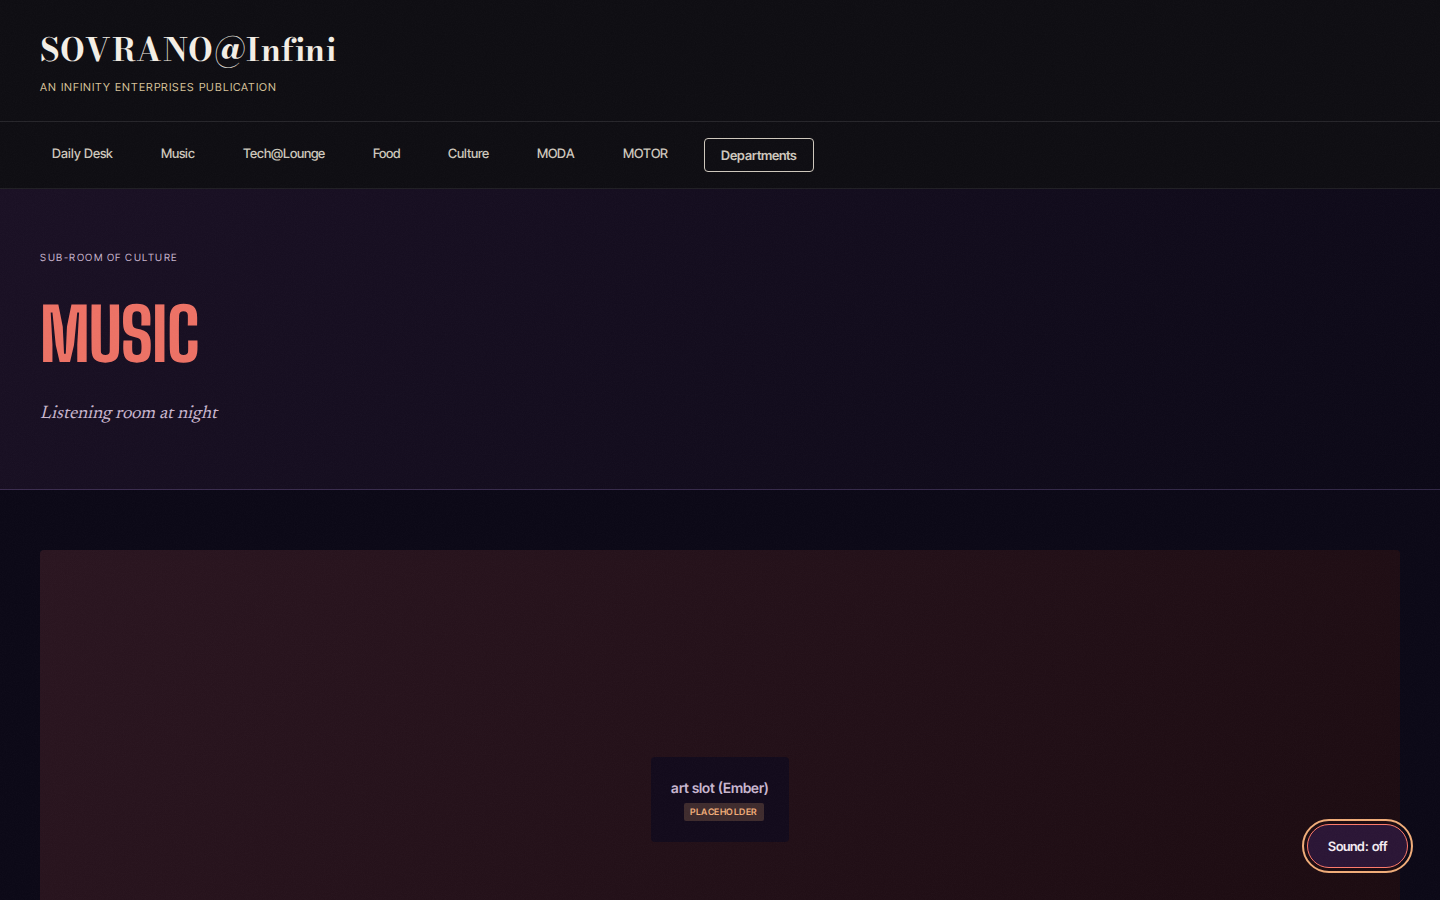
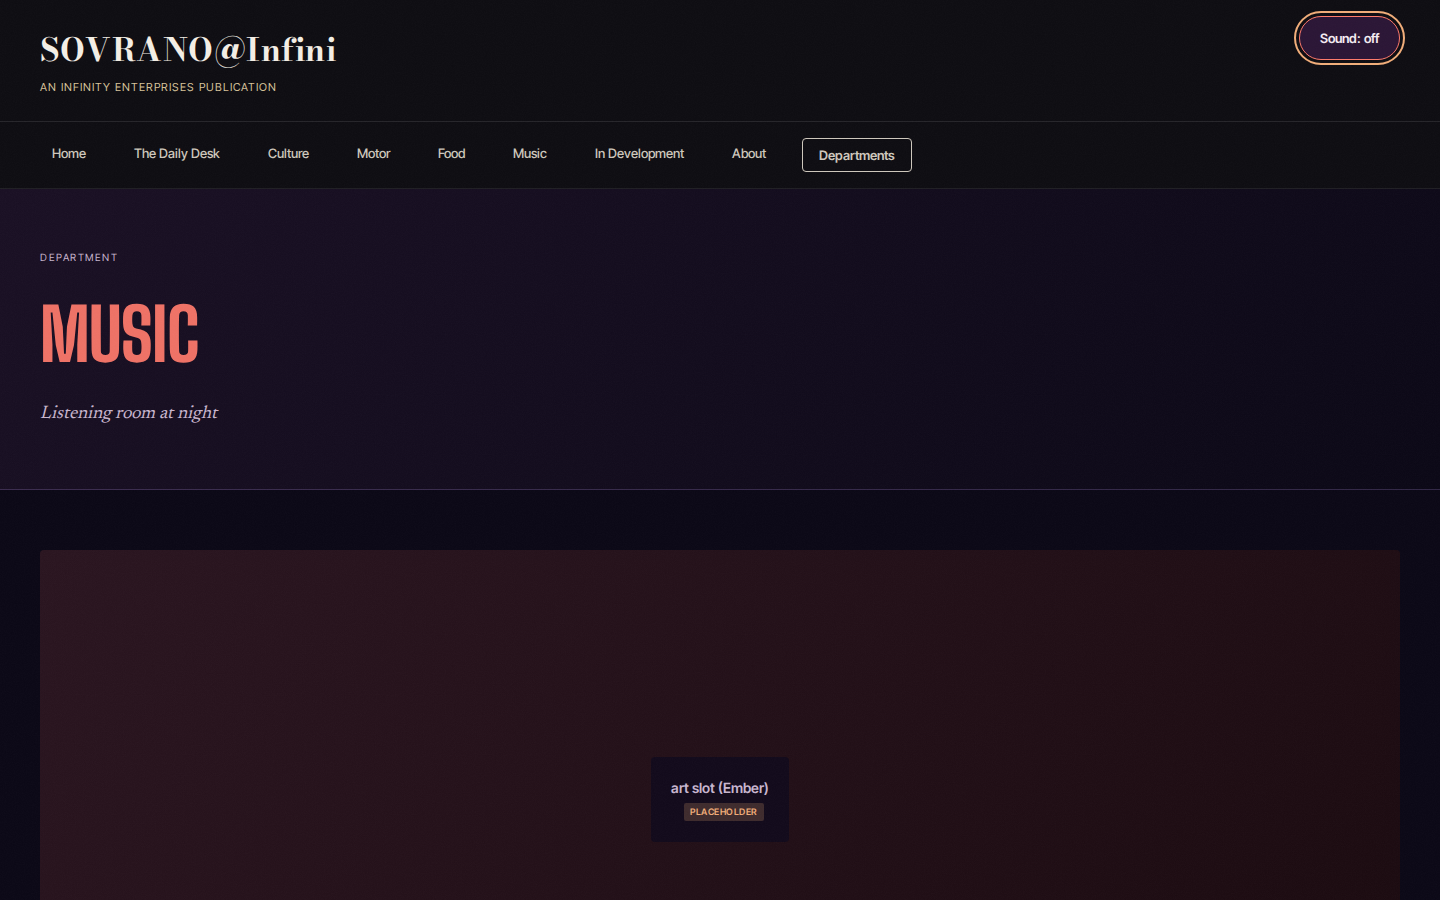
Fix issue #35 v2 mocks: navigation, labels, comparison PNGs (#35)
Four fixes per Forge review:
1. Fixed blank comparison PNGs (now show three rooms side-by-side)
2. Updated Music eyebrow from 'Sub-room of Culture' to 'Department' (Music is top-level per #60)
3. Fixed navigation to match NAVIGATION.md primary bar: Home, The Daily Desk, Culture, Motor, Food, Music, In Development, About, Departments. English department names only (removed Italian labels Circuit/Trattoria). Current page marked with aria-current.
4. Moved sound toggle to fixed top-right (avoids overlapping hero art)

All PNGs re-rendered. Build passes. No prohibited content.

diff --git a/design/issue-mocks/issue-35-v2/tech-lounge.html b/design/issue-mocks/issue-35-v2/tech-lounge.html
@@ -289,8 +289,8 @@
     /* Sound control */
     .sound-control {
       position: fixed;
-      bottom: 32px;
-      right: 32px;
+      top: 16px;
+      right: 40px;
       z-index: 100;
     }
     
@@ -355,8 +355,8 @@
       }
       
       .sound-control {
-        bottom: 20px;
-        right: 20px;
+        top: 12px;
+        right: 24px;
       }
     }
     
@@ -396,21 +396,22 @@
   <!-- Shared navigation -->
   <nav class="nav">
     <ul class="nav-list">
-      <li><a href="#" class="nav-link">Daily Desk</a></li>
-      <li><a href="#" class="nav-link">Music</a></li>
-      <li><a href="#" class="nav-link">Tech@Lounge</a></li>
-      <li><a href="#" class="nav-link">Food</a></li>
+      <li><a href="#" class="nav-link">Home</a></li>
+      <li><a href="#" class="nav-link">The Daily Desk</a></li>
       <li><a href="#" class="nav-link">Culture</a></li>
-      <li><a href="#" class="nav-link">MODA</a></li>
-      <li><a href="#" class="nav-link">MOTOR</a></li>
-      <li><button class="nav-menu-button" aria-label="Open departments menu">Departments</button></li>
+      <li><a href="#" class="nav-link">Motor</a></li>
+      <li><a href="#" class="nav-link">Food</a></li>
+      <li><a href="#" class="nav-link">Music</a></li>
+      <li><a href="#" class="nav-link">In Development</a></li>
+      <li><a href="#" class="nav-link">About</a></li>
+      <li><button class="nav-menu-button" aria-label="Open departments menu" aria-current="page">Departments</button></li>
     </ul>
   </nav>
   
   <div class="room-container">
     <!-- Room hero -->
     <section class="room-hero">
-      <div class="room-label">CIRCUIT</div>
+      <div class="room-label">Department</div>
       <h1 class="room-title">TECH@LOUNGE<span class="cursor-blink"></span></h1>
       <p class="room-tagline">Cold and exact</p>
     </section>

diff --git a/design/issue-mocks/issue-35-v2/music.html b/design/issue-mocks/issue-35-v2/music.html
@@ -232,8 +232,8 @@
     /* Sound control */
     .sound-control {
       position: fixed;
-      bottom: 32px;
-      right: 32px;
+      top: 16px;
+      right: 40px;
       z-index: 100;
     }
     
@@ -313,8 +313,8 @@
       }
       
       .sound-control {
-        bottom: 20px;
-        right: 20px;
+        top: 12px;
+        right: 24px;
       }
     }
     
@@ -353,13 +353,14 @@
   <!-- Shared navigation -->
   <nav class="nav">
     <ul class="nav-list">
-      <li><a href="#" class="nav-link">Daily Desk</a></li>
-      <li><a href="#" class="nav-link">Music</a></li>
-      <li><a href="#" class="nav-link">Tech@Lounge</a></li>
-      <li><a href="#" class="nav-link">Food</a></li>
+      <li><a href="#" class="nav-link">Home</a></li>
+      <li><a href="#" class="nav-link">The Daily Desk</a></li>
       <li><a href="#" class="nav-link">Culture</a></li>
-      <li><a href="#" class="nav-link">MODA</a></li>
-      <li><a href="#" class="nav-link">MOTOR</a></li>
+      <li><a href="#" class="nav-link">Motor</a></li>
+      <li><a href="#" class="nav-link">Food</a></li>
+      <li><a href="#" class="nav-link" aria-current="page">Music</a></li>
+      <li><a href="#" class="nav-link">In Development</a></li>
+      <li><a href="#" class="nav-link">About</a></li>
       <li><button class="nav-menu-button" aria-label="Open departments menu">Departments</button></li>
     </ul>
   </nav>
@@ -367,7 +368,7 @@
   <div class="room-container">
     <!-- Room hero -->
     <section class="room-hero">
-      <div class="room-label">Sub-room of Culture</div>
+      <div class="room-label">Department</div>
       <h1 class="room-title">MUSIC</h1>
       <p class="room-tagline">Listening room at night</p>
     </section>

diff --git a/design/issue-mocks/issue-35-v2/food.html b/design/issue-mocks/issue-35-v2/food.html
@@ -225,8 +225,8 @@
     /* Sound control */
     .sound-control {
       position: fixed;
-      bottom: 32px;
-      right: 32px;
+      top: 16px;
+      right: 40px;
       z-index: 100;
     }
     
@@ -306,8 +306,8 @@
       }
       
       .sound-control {
-        bottom: 20px;
-        right: 20px;
+        top: 12px;
+        right: 24px;
       }
     }
     
@@ -346,13 +346,14 @@
   <!-- Shared navigation -->
   <nav class="nav">
     <ul class="nav-list">
-      <li><a href="#" class="nav-link">Daily Desk</a></li>
-      <li><a href="#" class="nav-link">Music</a></li>
-      <li><a href="#" class="nav-link">Tech@Lounge</a></li>
-      <li><a href="#" class="nav-link">Food</a></li>
+      <li><a href="#" class="nav-link">Home</a></li>
+      <li><a href="#" class="nav-link">The Daily Desk</a></li>
       <li><a href="#" class="nav-link">Culture</a></li>
-      <li><a href="#" class="nav-link">MODA</a></li>
-      <li><a href="#" class="nav-link">MOTOR</a></li>
+      <li><a href="#" class="nav-link">Motor</a></li>
+      <li><a href="#" class="nav-link" aria-current="page">Food</a></li>
+      <li><a href="#" class="nav-link">Music</a></li>
+      <li><a href="#" class="nav-link">In Development</a></li>
+      <li><a href="#" class="nav-link">About</a></li>
       <li><button class="nav-menu-button" aria-label="Open departments menu">Departments</button></li>
     </ul>
   </nav>
@@ -360,7 +361,7 @@
   <div class="room-container">
     <!-- Room hero -->
     <section class="room-hero">
-      <div class="room-label">Trattoria</div>
+      <div class="room-label">Department</div>
       <h1 class="room-title">Food</h1>
       <p class="room-tagline">Slow and tactile</p>
     </section>

diff --git a/design/issue-mocks/issue-35-v2/SPEC.md b/design/issue-mocks/issue-35-v2/SPEC.md
@@ -17,7 +17,8 @@ Static design mocks for three SOVRANO@Infini rooms: Music, Tech@Lounge, and Food
 ### Navigation
 - **Font:** Inter Tight 500 (13px, SIL OFL 1.1, Google Fonts)
 - **Colors:** Links #cfc8bd, hover/focus #f4efe6
-- **Links shown:** Daily Desk, Music, Tech@Lounge, Food, Culture, MODA, MOTOR, plus "Departments" menu button
+- **Links shown (primary bar per NAVIGATION.md #60):** Home, The Daily Desk, Culture, Motor, Food, Music, In Development, About, plus "Departments" menu button
+- **Current page marked:** `aria-current="page"` on the active department link (Music and Food pages) or Departments button (Tech@Lounge, not in primary bar)
 - **Mobile:** All nav links and buttons ≥44×44px tap targets
 
 ### Byline & Credits
@@ -36,6 +37,8 @@ Static design mocks for three SOVRANO@Infini rooms: Music, Tech@Lounge, and Food
 ---
 
 ## Room 1: Music
+
+**Note:** Per #60 NAVIGATION.md, Music is a top-level department (not a sub-room of Culture). The eyebrow label reads "Department" to reflect this.
 
 ### Typography
 - **Display:** Big Shoulders Display 800 (SIL OFL 1.1, Google Fonts)
@@ -72,12 +75,15 @@ Static design mocks for three SOVRANO@Infini rooms: Music, Tech@Lounge, and Food
 
 ### Sound
 - **Behavior:** Off by default. Visible toggle button (≥44px, "Sound: off", aria-pressed=false)
+- **Position:** Fixed top-right (top: 16px desktop / 12px phone, right: 40px desktop / 24px phone) to avoid overlapping hero art
 - **Intended audio (not loaded in mock):** Vinyl crackle loop
 - **Opt-in:** User must click toggle; sound never autoplays
 
 ---
 
 ## Room 2: Tech@Lounge
+
+**Note:** Per #60 NAVIGATION.md, Tech@Lounge is not in the primary navigation bar. Its page marks the "Departments" button as current via `aria-current="page"` on the button. The eyebrow label reads "Department" (English, per #60 naming; Italian "Circuit" removed from public labels).
 
 ### Typography
 - **Headlines:** Space Grotesk 700 (SIL OFL 1.1, Google Fonts)
@@ -116,12 +122,15 @@ Static design mocks for three SOVRANO@Infini rooms: Music, Tech@Lounge, and Food
 
 ### Sound
 - **Behavior:** Off by default. Visible toggle (≥44px, "Sound: off", monospace)
+- **Position:** Fixed top-right (top: 16px desktop / 12px phone, right: 40px desktop / 24px phone) to avoid overlapping content
 - **Intended audio (not loaded in mock):** Cursor blip, element snap clicks
 - **Opt-in:** User must enable; no autoplay
 
 ---
 
 ## Room 3: Food
+
+**Note:** Per #60 RECONCILIATION.md, the department name is **Food** (English), not "Tavola" or "Trattoria" (Italian room IDs removed from public labels per #60 naming). The eyebrow label reads "Department."
 
 ### Typography
 - **Display:** Cormorant Garamond 600/700 (SIL OFL 1.1, Google Fonts)
@@ -158,6 +167,7 @@ Static design mocks for three SOVRANO@Infini rooms: Music, Tech@Lounge, and Food
 
 ### Sound
 - **Behavior:** Off by default. Visible toggle (≥44px, "Sound: off", rounded pill button)
+- **Position:** Fixed top-right (top: 16px desktop / 12px phone, right: 40px desktop / 24px phone) to avoid overlapping content
 - **Intended audio (not loaded in mock):** Plate clink, soft ambient chatter
 - **Opt-in:** User must enable; no autoplay
 
